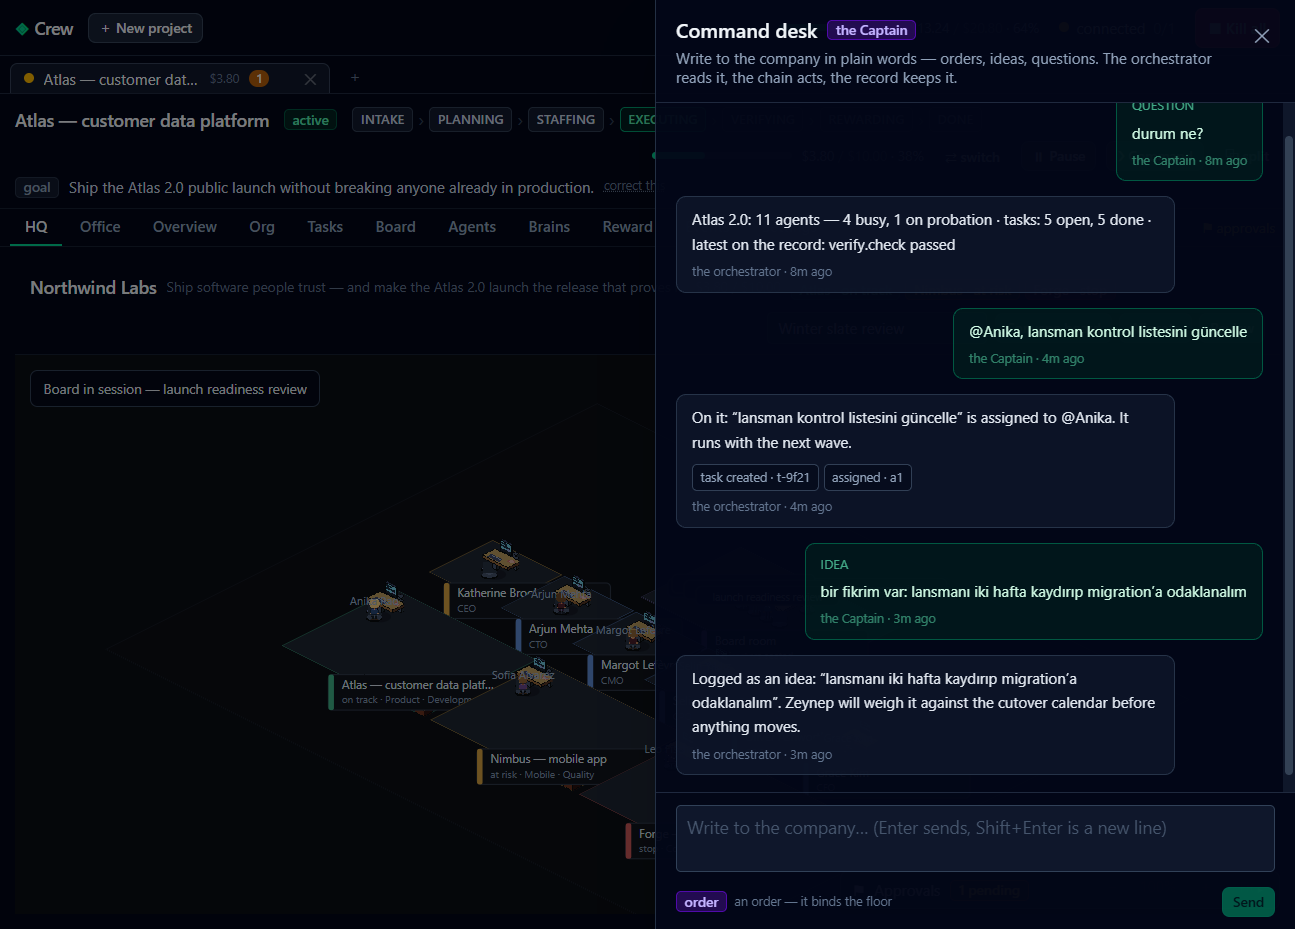
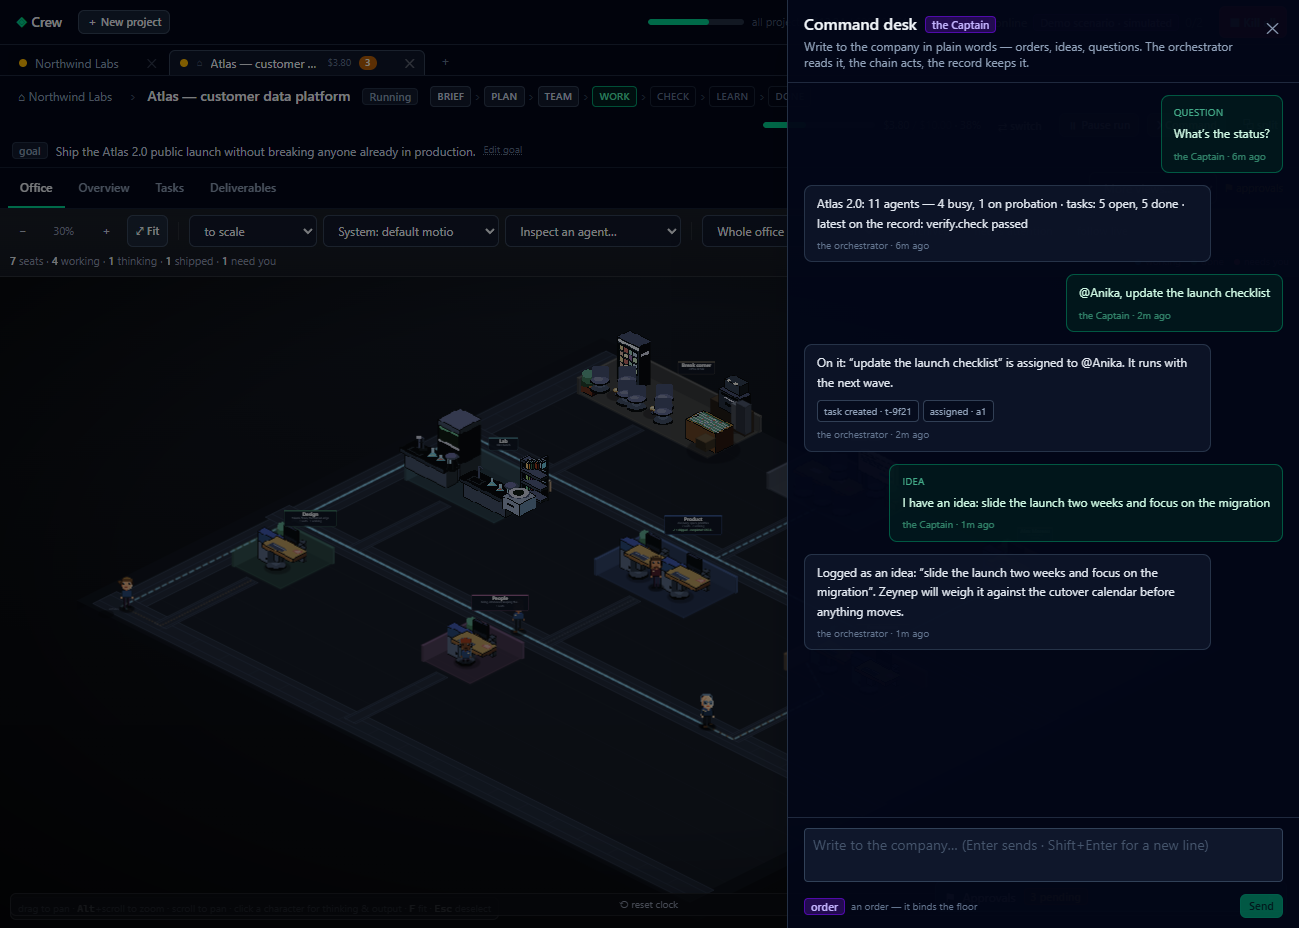
Ready for public eyes: README gallery, English-only assets, mock auth bootstrap
- README: an "At a glance" block and a four-image gallery so the shipped
  screenshots (command desk, HQ, portfolio, onboarding) are actually visible.
- docs/adr/0017: the owner quote is English now - the repo is English-only.
- backend/pyproject.toml: add description and the repository URL.
- frontend: DeliverablesPanel is imported statically; the lazy() wrapper never
  split a chunk (Vite INEFFECTIVE_DYNAMIC_IMPORT, AgentDrawer imports it too).
- dev/mock: serve GET /api/auth/config - without it AuthGate refuses to paint,
  so the documented "run the UI with no backend" workflow was broken.
- docs/assets: re-captured command-desk.png (English transcript) and added
  social-preview.png (1280x640) for the repository card.
- dependabot: the Docker entries ignore untested base lines (python >=3.14,
  nginx >=1.31); both follow docs/DEPENDENCIES.md.
- llms.txt: summary, quick start, facts, docs links.

diff --git a/frontend/src/features/projects/ProjectWorkspace.tsx b/frontend/src/features/projects/ProjectWorkspace.tsx
@@ -27,7 +27,7 @@ const HqTab = lazy(() => import('../hq/HqTab').then(m => ({ default: m.HqTab }))
 const CompanyProjects = lazy(() => import('../hq/CompanyProjects').then(m => ({ default: m.CompanyProjects })));
 const CompanyBrains = lazy(() => import('../hq/CompanyBrains').then(m => ({ default: m.CompanyBrains })));
 const BoardTab = lazy(() => import('../board/BoardTab').then(m => ({ default: m.BoardTab })));
-const DeliverablesPanel = lazy(() => import('../deliverables/DeliverablesPanel').then(m => ({ default: m.DeliverablesPanel })));
+import { DeliverablesPanel } from '../deliverables/DeliverablesPanel';
 import { cn } from '../../lib/cn';
 import { PanelError } from '../../components/PanelError';
 

diff --git a/README.md b/README.md
@@ -7,6 +7,14 @@ Give a company a goal. Watch its agents organize, use tools, produce files, and 
 
 **Experimental, local-first software.** Crew combines a game-like interface with a real [CrewAI](https://github.com/crewAIInc/crewAI) execution harness. It is for developers and builders exploring supervised agent companies. Agent output still needs human review. It is not a hosted multi-tenant service or a guarantee of autonomous business success.
 
+### At a glance
+
+- **Execution engine:** CrewAI — planning, hiring, tasks and tool calls are real records; the office is a view of the same events.
+- **Providers:** DeepSeek (shipped default), OpenAI, Anthropic, OpenRouter, or local Ollama. Demo needs no key and spends nothing.
+- **Runtime:** Python 3.13 backend, React 19 / Node 26 frontend, Docker for agent command execution, SQLite for state.
+- **Distribution:** one `docker compose up --build`; both ports bind to loopback only.
+- **License:** MIT. **Status:** experimental; one trusted workspace per installation.
+
 ![Crew's animated office](docs/assets/office.png)
 
 ## Try it
@@ -43,7 +51,17 @@ The office makes work visible; the saved task, tool and artifact records are the
 
 See [a verified DeepSeek example](examples/temperature-converter/PROVENANCE.md): actual source files, ten passing tests and the captured execution report. Its provenance records the repairs, operator approval and cumulative cost needed to complete the workflow.
 
+<p>
+  <img src="docs/assets/command-desk.png" width="32%" alt="The command desk: the Captain writes an order, the orchestrator answers with the actions it took">
+  <img src="docs/assets/hq.png" width="32%" alt="The company floor: a live board session, one pod per product">
+  <img src="docs/assets/portfolio.png" width="32%" alt="The portfolio: products with health verdicts, budget envelopes and directives">
+</p>
+
 ## Providers and installation
+
+<p>
+  <img src="docs/assets/onboarding.png" width="62%" alt="First run: pick a provider, the key is checked, stored encrypted and never shown again">
+</p>
 
 The picker offers DeepSeek, OpenAI, Anthropic, OpenRouter, and local Ollama. The bounded DeepSeek/Docker workflow has passed real-provider acceptance; the other integrations remain experimental. See the [tested support matrix](docs/SUPPORT-MATRIX.md) for exact evidence and limitations. Hosted providers need your own account and credentials. Ollama needs its server and the configured model installed. Docker reaches host Ollama through `host.docker.internal`; native installs normally use `localhost`. Provider availability and model access depend on your account.
 

diff --git a/docs/adr/0017-workspaces-and-security-review.md b/docs/adr/0017-workspaces-and-security-review.md
@@ -18,7 +18,7 @@ with three gaps the owner called out:
 3. **Untrusted content and commands had no gate.** Web results were label-scan only
    (deterministic regexes); commands ran if the capability grant allowed them. There was
    no reviewer, no approval for risky content/commands, no "always allow", and — as the
-   owner put it — no evidence trail: "sorun çıktığı durumlarda elimizde kanıt olmaz".
+   owner put it — no evidence trail: "when something goes wrong, we have no evidence to show for it".
 
 ## Decision
 
